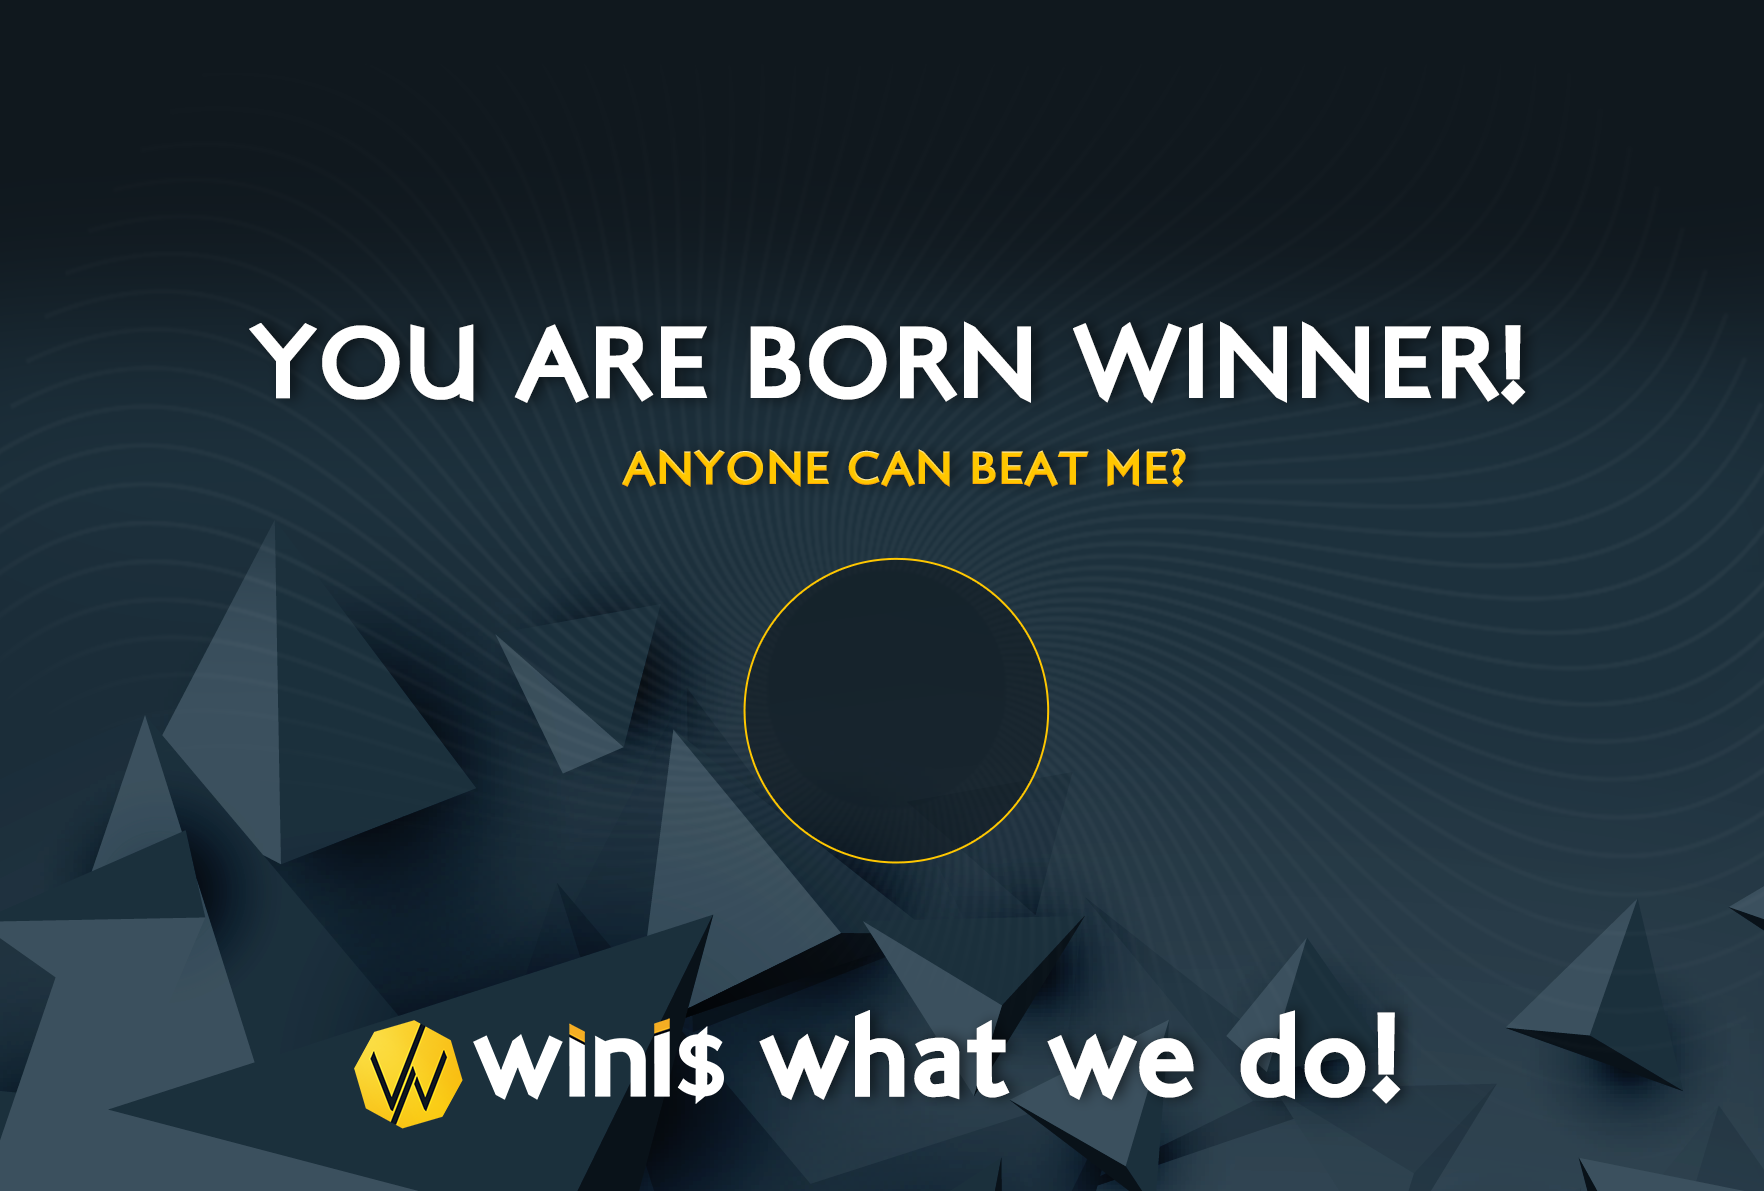
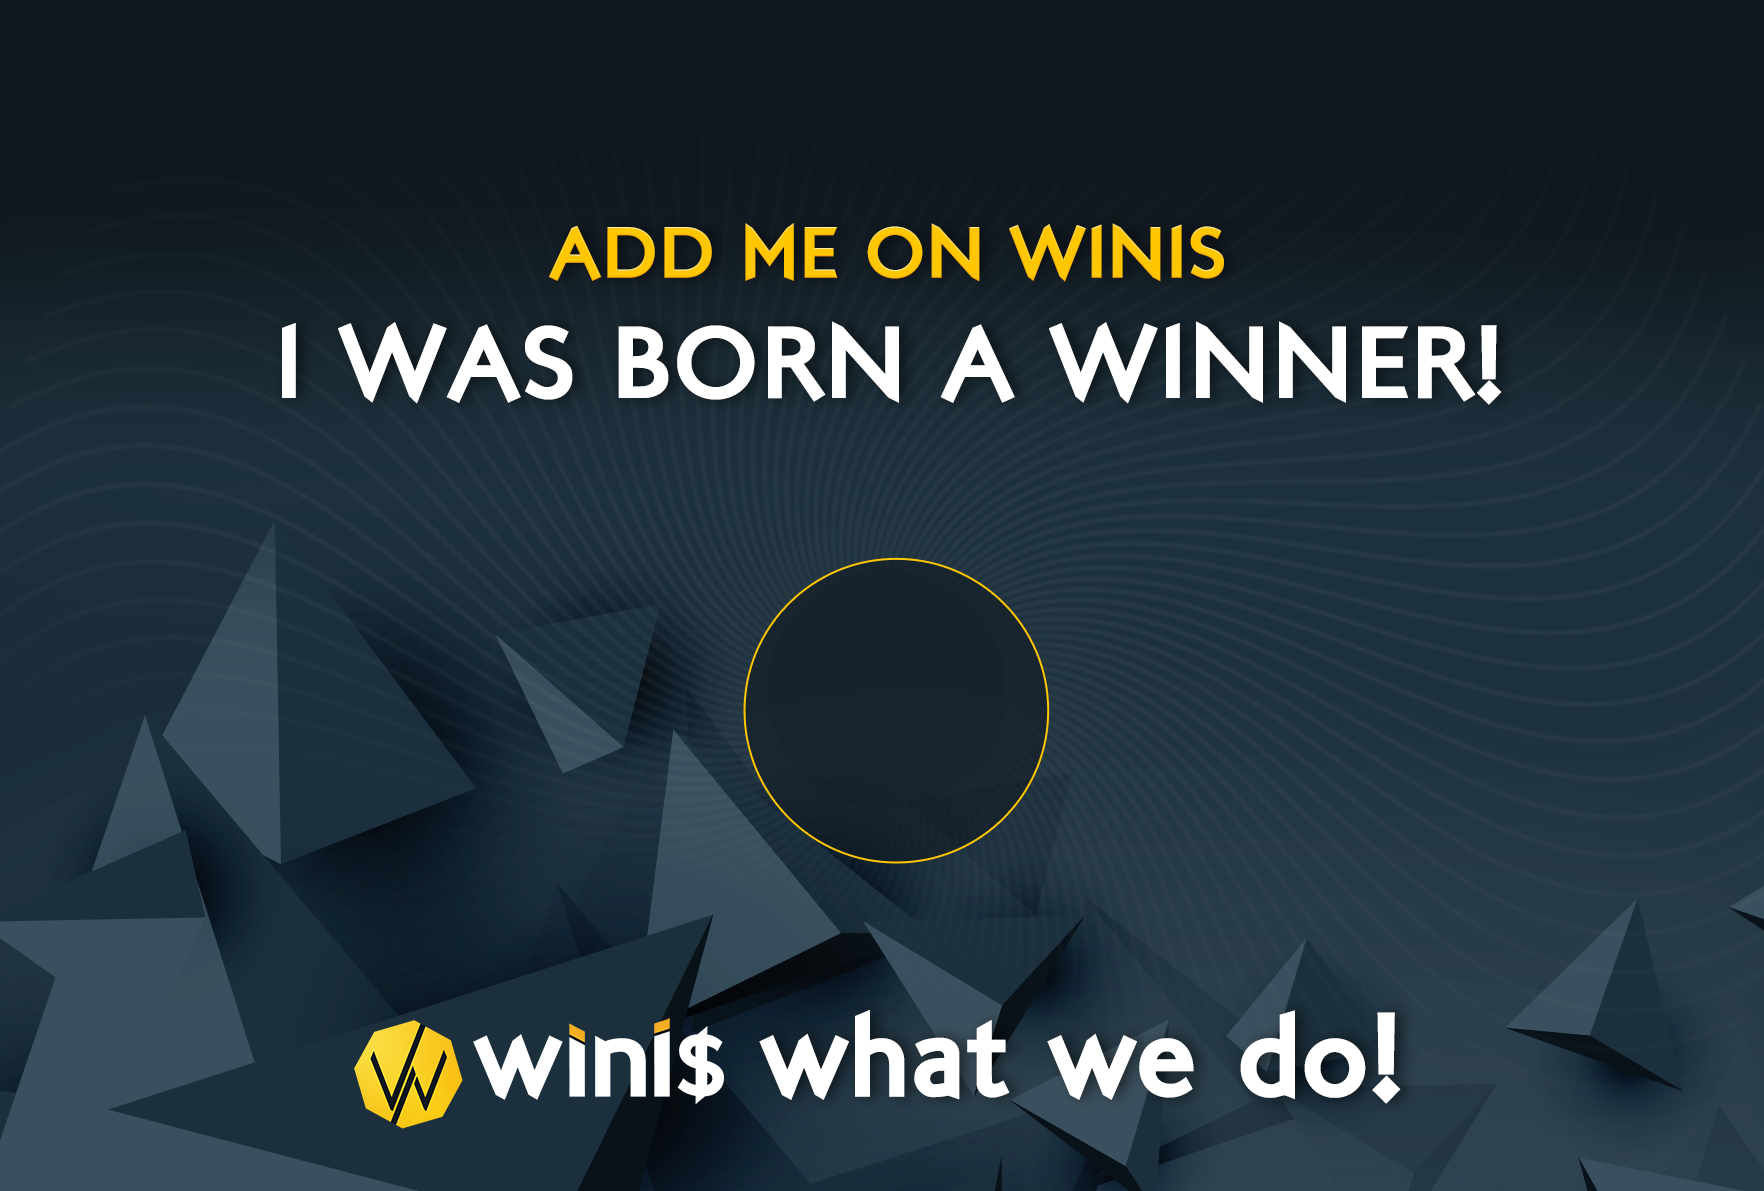
Update share image to the new design

Changed region(s): [[0.1247, 0.1864, 0.873, 0.3417], [0.343, 0.3728, 0.6859, 0.4039]]

diff --git a/common/models/user.js b/common/models/user.js
@@ -187,7 +187,7 @@ module.exports = function(User) {
     const topStarsOverlayImage = `${__dirname}/../../assets/share/${type}/topstar_overlay.png`;
     const avatarMaskImage = `${__dirname}/../../assets/share/${type}/avatar_mask.png`;
     const gameImage = `${__dirname}/../../assets/games/${game}.png`;
-    const titleFont = `${__dirname}/../../assets/fonts/LondonTwo_74.fnt`;
+    const titleFont = `${__dirname}/../../assets/fonts/LondonTwo.fnt`;
 
     const background = await jimp.read(backgroundImage);
     const starsOverlay = await jimp.read(starsOverlayImage);
@@ -198,7 +198,7 @@ module.exports = function(User) {
 
     const font = await jimp.loadFont(titleFont);
 
-    const winnerText = `${userName.toUpperCase()} ROCKS AGAIN!`;
+    const winnerText = `${userName.toUpperCase()}`;
     const textWidth = User.measureText(font, winnerText);
     const textPosition = Math.floor((background.bitmap.width / 2) - (textWidth / 2) * 0.85);
 
@@ -209,7 +209,7 @@ module.exports = function(User) {
       background.composite(starsOverlay, 250, 783);
       background.composite(gameIconOverlay, 794, 78);
       background.composite(topStarsOverlay, 718, 90);
-      background.print(font, textPosition, 320, winnerText);
+      background.print(font, textPosition, 1290, winnerText);
     } else {
       avatarOverlay.cover(265, 265);
       avatarOverlay.mask(avatarMaskOverlay, 0, 0);
@@ -217,7 +217,7 @@ module.exports = function(User) {
       background.composite(starsOverlay, 414, 504);
       background.composite(gameIconOverlay, 790, 12);
       background.composite(topStarsOverlay, 539, 0);
-      background.print(font, textPosition, 215, winnerText);
+      background.print(font, textPosition, 880, winnerText);
     }
 
     return background;

diff --git a/test/user.test.js b/test/user.test.js
@@ -190,7 +190,7 @@ describe('User', function() {
         .get(`/api/users/${strangerUser.id}/share/basketball/winner.jpg`)
         .then((res) => jimp.read(res.body))
         .then((shareImage) => {
-          expect(shareImage.hash()).to.be.equal('8cFfa0sx0hF');
+          expect(shareImage.hash()).to.be.equal('8cFba2gx0gF');
           done();
         });
     });
@@ -200,7 +200,7 @@ describe('User', function() {
         .get(`/api/users/${strangerUser.id}/share/ig/basketball/winner.jpg`)
         .then((res) => jimp.read(res.body))
         .then((shareImage) => {
-          expect(shareImage.hash()).to.be.equal('8c8bGEqx2N8');
+          expect(shareImage.hash()).to.be.equal('ac8bGwUxig8');
           done();
         });
     });
